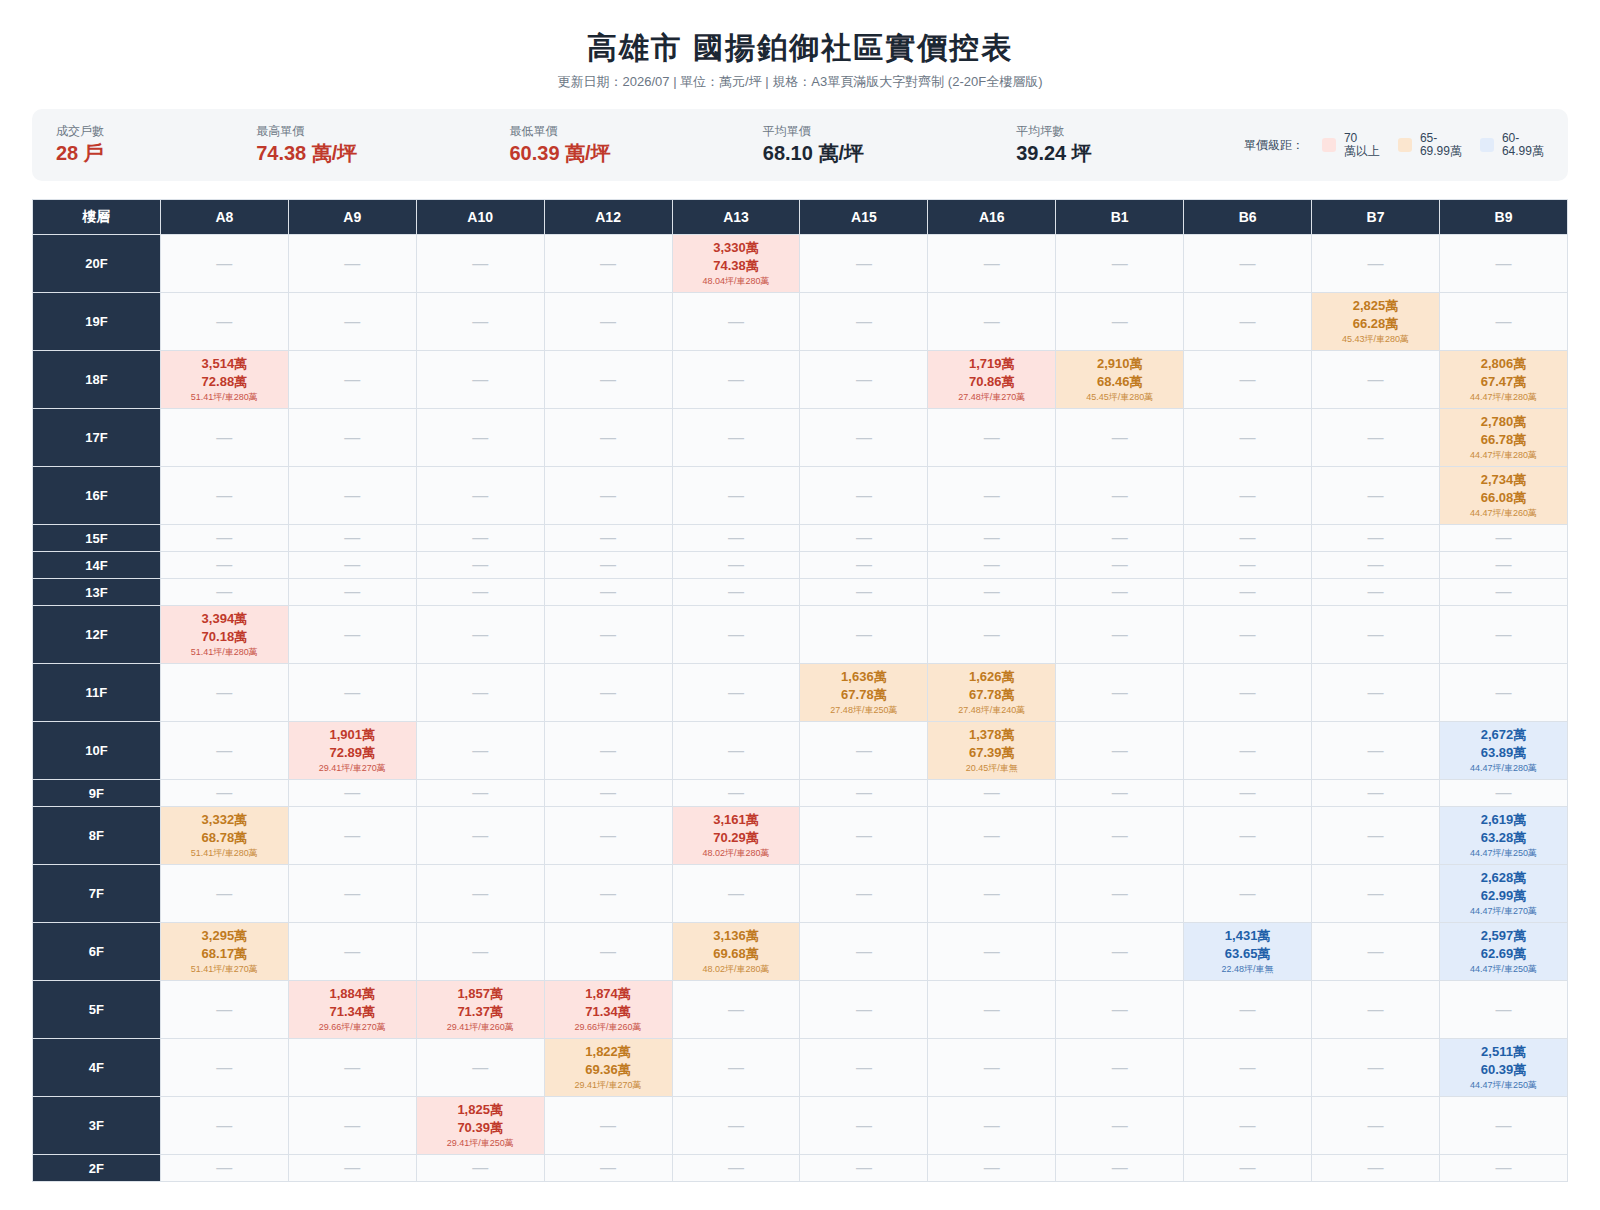
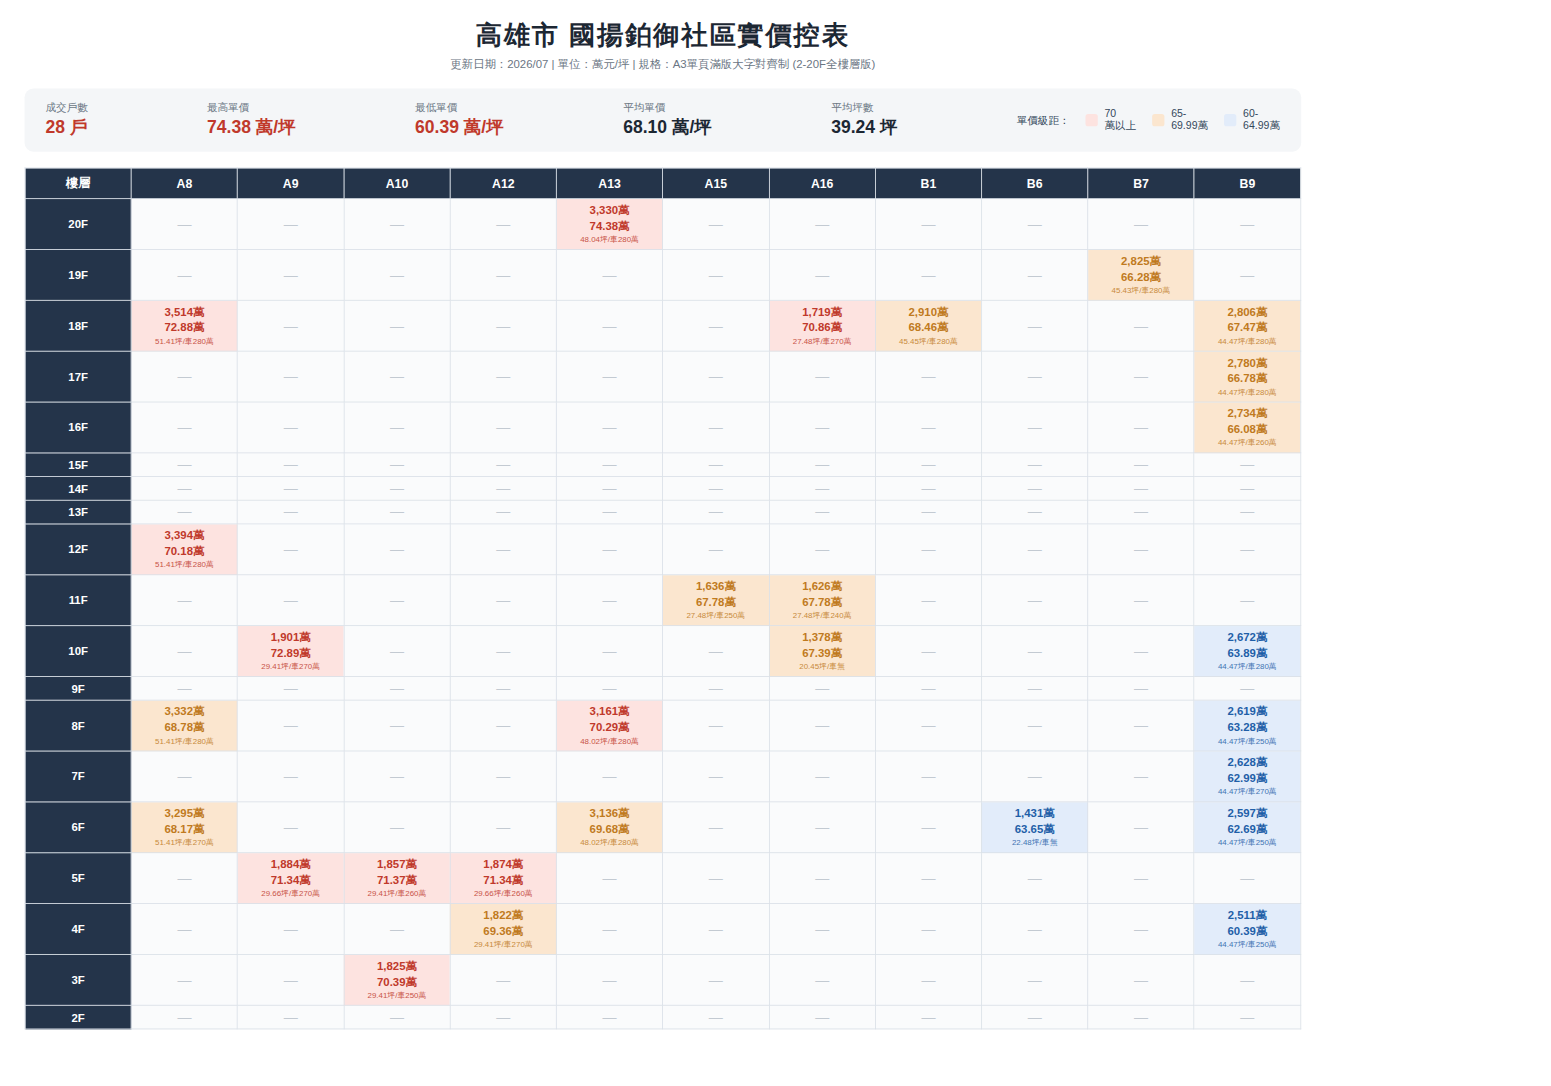
Force report onto a single A3 page regardless of row/column count
Wrap the table in a fixed content box and auto-scale it down (via
scripts/render_pdf.py) to fit the printable page area, so growing
data (more transactions/units) never spills onto a second page.

Claude-Session: https://claude.ai/code/session_019qMmeph4mJXozC5k1Nyzof

diff --git a/output/guoyang_report.html b/output/guoyang_report.html
@@ -1,12 +1,26 @@
 <title>高雄市 國揚鉑御社區實價控表</title>
 <style>
   * { box-sizing: border-box; }
+  html, body {
+    margin: 0;
+    background: #ffffff;
+  }
   body {
     font-family: "Noto Sans TC", "PingFang TC", "Microsoft JhengHei", sans-serif;
-    margin: 0;
-    padding: 28px 32px;
-    background: #ffffff;
     color: #1c2733;
+  }
+  /* Fixed to the printable content box (A3 landscape minus @page margin).
+     #content is scaled down (never up) by render_pdf.py so the whole
+     report always lands on a single page, however many rows/columns. */
+  #sheet {
+    width: 400mm;
+    height: 277mm;
+    overflow: hidden;
+    position: relative;
+  }
+  #content {
+    padding: 20px 28px;
+    transform-origin: top left;
   }
   h1 {
     font-size: 30px;
@@ -64,6 +78,7 @@
   td .note { font-size: 9px; opacity: 0.85; }
   @page { size: A3 landscape; margin: 10mm; }
 </style>
+<div id="sheet"><div id="content">
 <h1>高雄市 國揚鉑御社區實價控表</h1>
 <div class="subtitle">更新日期：2026/07 | 單位：萬元/坪 | 規格：A3單頁滿版大字對齊制 (2-20F全樓層版)</div>
 <div class="stats">
@@ -83,3 +98,4 @@
     <tr><th class="floor">20F</th><td class="empty">—</td><td class="empty">—</td><td class="empty">—</td><td class="empty">—</td><td style="background:#fde3e0;color:#c0392b;"><div class="price">3,330萬</div><div class="unitprice">74.38萬</div><div class="note">48.04坪/車280萬</div></td><td class="empty">—</td><td class="empty">—</td><td class="empty">—</td><td class="empty">—</td><td class="empty">—</td><td class="empty">—</td></tr><tr><th class="floor">19F</th><td class="empty">—</td><td class="empty">—</td><td class="empty">—</td><td class="empty">—</td><td class="empty">—</td><td class="empty">—</td><td class="empty">—</td><td class="empty">—</td><td class="empty">—</td><td style="background:#fbe6cf;color:#c07a1e;"><div class="price">2,825萬</div><div class="unitprice">66.28萬</div><div class="note">45.43坪/車280萬</div></td><td class="empty">—</td></tr><tr><th class="floor">18F</th><td style="background:#fde3e0;color:#c0392b;"><div class="price">3,514萬</div><div class="unitprice">72.88萬</div><div class="note">51.41坪/車280萬</div></td><td class="empty">—</td><td class="empty">—</td><td class="empty">—</td><td class="empty">—</td><td class="empty">—</td><td style="background:#fde3e0;color:#c0392b;"><div class="price">1,719萬</div><div class="unitprice">70.86萬</div><div class="note">27.48坪/車270萬</div></td><td style="background:#fbe6cf;color:#c07a1e;"><div class="price">2,910萬</div><div class="unitprice">68.46萬</div><div class="note">45.45坪/車280萬</div></td><td class="empty">—</td><td class="empty">—</td><td style="background:#fbe6cf;color:#c07a1e;"><div class="price">2,806萬</div><div class="unitprice">67.47萬</div><div class="note">44.47坪/車280萬</div></td></tr><tr><th class="floor">17F</th><td class="empty">—</td><td class="empty">—</td><td class="empty">—</td><td class="empty">—</td><td class="empty">—</td><td class="empty">—</td><td class="empty">—</td><td class="empty">—</td><td class="empty">—</td><td class="empty">—</td><td style="background:#fbe6cf;color:#c07a1e;"><div class="price">2,780萬</div><div class="unitprice">66.78萬</div><div class="note">44.47坪/車280萬</div></td></tr><tr><th class="floor">16F</th><td class="empty">—</td><td class="empty">—</td><td class="empty">—</td><td class="empty">—</td><td class="empty">—</td><td class="empty">—</td><td class="empty">—</td><td class="empty">—</td><td class="empty">—</td><td class="empty">—</td><td style="background:#fbe6cf;color:#c07a1e;"><div class="price">2,734萬</div><div class="unitprice">66.08萬</div><div class="note">44.47坪/車260萬</div></td></tr><tr><th class="floor">15F</th><td class="empty">—</td><td class="empty">—</td><td class="empty">—</td><td class="empty">—</td><td class="empty">—</td><td class="empty">—</td><td class="empty">—</td><td class="empty">—</td><td class="empty">—</td><td class="empty">—</td><td class="empty">—</td></tr><tr><th class="floor">14F</th><td class="empty">—</td><td class="empty">—</td><td class="empty">—</td><td class="empty">—</td><td class="empty">—</td><td class="empty">—</td><td class="empty">—</td><td class="empty">—</td><td class="empty">—</td><td class="empty">—</td><td class="empty">—</td></tr><tr><th class="floor">13F</th><td class="empty">—</td><td class="empty">—</td><td class="empty">—</td><td class="empty">—</td><td class="empty">—</td><td class="empty">—</td><td class="empty">—</td><td class="empty">—</td><td class="empty">—</td><td class="empty">—</td><td class="empty">—</td></tr><tr><th class="floor">12F</th><td style="background:#fde3e0;color:#c0392b;"><div class="price">3,394萬</div><div class="unitprice">70.18萬</div><div class="note">51.41坪/車280萬</div></td><td class="empty">—</td><td class="empty">—</td><td class="empty">—</td><td class="empty">—</td><td class="empty">—</td><td class="empty">—</td><td class="empty">—</td><td class="empty">—</td><td class="empty">—</td><td class="empty">—</td></tr><tr><th class="floor">11F</th><td class="empty">—</td><td class="empty">—</td><td class="empty">—</td><td class="empty">—</td><td class="empty">—</td><td style="background:#fbe6cf;color:#c07a1e;"><div class="price">1,636萬</div><div class="unitprice">67.78萬</div><div class="note">27.48坪/車250萬</div></td><td style="background:#fbe6cf;color:#c07a1e;"><div class="price">1,626萬</div><div class="unitprice">67.78萬</div><div class="note">27.48坪/車240萬</div></td><td class="empty">—</td><td class="empty">—</td><td class="empty">—</td><td class="empty">—</td></tr><tr><th class="floor">10F</th><td class="empty">—</td><td style="background:#fde3e0;color:#c0392b;"><div class="price">1,901萬</div><div class="unitprice">72.89萬</div><div class="note">29.41坪/車270萬</div></td><td class="empty">—</td><td class="empty">—</td><td class="empty">—</td><td class="empty">—</td><td style="background:#fbe6cf;color:#c07a1e;"><div class="price">1,378萬</div><div class="unitprice">67.39萬</div><div class="note">20.45坪/車無</div></td><td class="empty">—</td><td class="empty">—</td><td class="empty">—</td><td style="background:#e2ecfa;color:#1f5fa8;"><div class="price">2,672萬</div><div class="unitprice">63.89萬</div><div class="note">44.47坪/車280萬</div></td></tr><tr><th class="floor">9F</th><td class="empty">—</td><td class="empty">—</td><td class="empty">—</td><td class="empty">—</td><td class="empty">—</td><td class="empty">—</td><td class="empty">—</td><td class="empty">—</td><td class="empty">—</td><td class="empty">—</td><td class="empty">—</td></tr><tr><th class="floor">8F</th><td style="background:#fbe6cf;color:#c07a1e;"><div class="price">3,332萬</div><div class="unitprice">68.78萬</div><div class="note">51.41坪/車280萬</div></td><td class="empty">—</td><td class="empty">—</td><td class="empty">—</td><td style="background:#fde3e0;color:#c0392b;"><div class="price">3,161萬</div><div class="unitprice">70.29萬</div><div class="note">48.02坪/車280萬</div></td><td class="empty">—</td><td class="empty">—</td><td class="empty">—</td><td class="empty">—</td><td class="empty">—</td><td style="background:#e2ecfa;color:#1f5fa8;"><div class="price">2,619萬</div><div class="unitprice">63.28萬</div><div class="note">44.47坪/車250萬</div></td></tr><tr><th class="floor">7F</th><td class="empty">—</td><td class="empty">—</td><td class="empty">—</td><td class="empty">—</td><td class="empty">—</td><td class="empty">—</td><td class="empty">—</td><td class="empty">—</td><td class="empty">—</td><td class="empty">—</td><td style="background:#e2ecfa;color:#1f5fa8;"><div class="price">2,628萬</div><div class="unitprice">62.99萬</div><div class="note">44.47坪/車270萬</div></td></tr><tr><th class="floor">6F</th><td style="background:#fbe6cf;color:#c07a1e;"><div class="price">3,295萬</div><div class="unitprice">68.17萬</div><div class="note">51.41坪/車270萬</div></td><td class="empty">—</td><td class="empty">—</td><td class="empty">—</td><td style="background:#fbe6cf;color:#c07a1e;"><div class="price">3,136萬</div><div class="unitprice">69.68萬</div><div class="note">48.02坪/車280萬</div></td><td class="empty">—</td><td class="empty">—</td><td class="empty">—</td><td style="background:#e2ecfa;color:#1f5fa8;"><div class="price">1,431萬</div><div class="unitprice">63.65萬</div><div class="note">22.48坪/車無</div></td><td class="empty">—</td><td style="background:#e2ecfa;color:#1f5fa8;"><div class="price">2,597萬</div><div class="unitprice">62.69萬</div><div class="note">44.47坪/車250萬</div></td></tr><tr><th class="floor">5F</th><td class="empty">—</td><td style="background:#fde3e0;color:#c0392b;"><div class="price">1,884萬</div><div class="unitprice">71.34萬</div><div class="note">29.66坪/車270萬</div></td><td style="background:#fde3e0;color:#c0392b;"><div class="price">1,857萬</div><div class="unitprice">71.37萬</div><div class="note">29.41坪/車260萬</div></td><td style="background:#fde3e0;color:#c0392b;"><div class="price">1,874萬</div><div class="unitprice">71.34萬</div><div class="note">29.66坪/車260萬</div></td><td class="empty">—</td><td class="empty">—</td><td class="empty">—</td><td class="empty">—</td><td class="empty">—</td><td class="empty">—</td><td class="empty">—</td></tr><tr><th class="floor">4F</th><td class="empty">—</td><td class="empty">—</td><td class="empty">—</td><td style="background:#fbe6cf;color:#c07a1e;"><div class="price">1,822萬</div><div class="unitprice">69.36萬</div><div class="note">29.41坪/車270萬</div></td><td class="empty">—</td><td class="empty">—</td><td class="empty">—</td><td class="empty">—</td><td class="empty">—</td><td class="empty">—</td><td style="background:#e2ecfa;color:#1f5fa8;"><div class="price">2,511萬</div><div class="unitprice">60.39萬</div><div class="note">44.47坪/車250萬</div></td></tr><tr><th class="floor">3F</th><td class="empty">—</td><td class="empty">—</td><td style="background:#fde3e0;color:#c0392b;"><div class="price">1,825萬</div><div class="unitprice">70.39萬</div><div class="note">29.41坪/車250萬</div></td><td class="empty">—</td><td class="empty">—</td><td class="empty">—</td><td class="empty">—</td><td class="empty">—</td><td class="empty">—</td><td class="empty">—</td><td class="empty">—</td></tr><tr><th class="floor">2F</th><td class="empty">—</td><td class="empty">—</td><td class="empty">—</td><td class="empty">—</td><td class="empty">—</td><td class="empty">—</td><td class="empty">—</td><td class="empty">—</td><td class="empty">—</td><td class="empty">—</td><td class="empty">—</td></tr>
   </tbody>
 </table>
+</div></div>

diff --git a/scripts/render_pdf.py b/scripts/render_pdf.py
@@ -1,0 +1,65 @@
+#!/usr/bin/env python3
+"""Render the report HTML to a single-page A3-landscape PDF (+ PNG preview).
+
+However many rows/columns the table ends up with, #content is measured
+and scaled down (never up) to fit exactly inside the printable page box,
+so the output is guaranteed to be one page.
+
+Usage:
+    python3 scripts/render_pdf.py [html_path] [pdf_out] [png_out]
+"""
+import sys
+from pathlib import Path
+
+from playwright.sync_api import sync_playwright
+
+ROOT = Path(__file__).resolve().parent.parent
+HTML_PATH = Path(sys.argv[1]) if len(sys.argv) > 1 else ROOT / "output" / "guoyang_report.html"
+PDF_OUT = Path(sys.argv[2]) if len(sys.argv) > 2 else ROOT / "output" / "guoyang_report.pdf"
+PNG_OUT = Path(sys.argv[3]) if len(sys.argv) > 3 else ROOT / "output" / "guoyang_report.png"
+
+PAGE_WIDTH_MM, PAGE_HEIGHT_MM = 420, 297
+PAGE_MARGIN_MM = 10
+CONTENT_WIDTH_MM = PAGE_WIDTH_MM - 2 * PAGE_MARGIN_MM
+CONTENT_HEIGHT_MM = PAGE_HEIGHT_MM - 2 * PAGE_MARGIN_MM
+MM_TO_PX = 96 / 25.4  # Chromium print uses 96 CSS px per inch
+
+
+def main():
+    box_w_px = CONTENT_WIDTH_MM * MM_TO_PX
+    box_h_px = CONTENT_HEIGHT_MM * MM_TO_PX
+
+    with sync_playwright() as p:
+        browser = p.chromium.launch(executable_path="/opt/pw-browsers/chromium")
+        page = browser.new_page(viewport={"width": int(box_w_px) + 40, "height": int(box_h_px) + 40})
+        page.goto(f"file://{HTML_PATH.resolve()}")
+        page.emulate_media(media="print")
+
+        natural = page.evaluate(
+            "() => { const c = document.getElementById('content');"
+            " return {w: c.scrollWidth, h: c.scrollHeight}; }"
+        )
+        scale = min(1.0, box_w_px / natural["w"], box_h_px / natural["h"])
+        page.evaluate(
+            "(scale) => { document.getElementById('content').style.transform = "
+            "`scale(${scale})`; }",
+            scale,
+        )
+
+        PDF_OUT.parent.mkdir(parents=True, exist_ok=True)
+        page.pdf(
+            path=str(PDF_OUT),
+            width=f"{PAGE_WIDTH_MM}mm",
+            height=f"{PAGE_HEIGHT_MM}mm",
+            print_background=True,
+            margin={"top": f"{PAGE_MARGIN_MM}mm", "bottom": f"{PAGE_MARGIN_MM}mm",
+                    "left": f"{PAGE_MARGIN_MM}mm", "right": f"{PAGE_MARGIN_MM}mm"},
+        )
+        page.screenshot(path=str(PNG_OUT), full_page=False)
+        browser.close()
+
+    print(f"scale={scale:.3f} natural={natural} -> {PDF_OUT}")
+
+
+if __name__ == "__main__":
+    main()

diff --git a/scripts/generate_report.py b/scripts/generate_report.py
@@ -20,6 +20,13 @@ BUILDING_NAME = "國揚鉑御"
 CITY_TITLE = "高雄市 國揚鉑御社區實價控表"
 FLOOR_MIN, FLOOR_MAX = 2, 20
 
+# A3 landscape = 420 x 297mm. #content is scaled to fit inside this box
+# (see render_pdf.py) so the report is always exactly one page.
+PAGE_WIDTH_MM, PAGE_HEIGHT_MM = 420, 297
+PAGE_MARGIN_MM = 10
+PAGE_CONTENT_WIDTH_MM = PAGE_WIDTH_MM - 2 * PAGE_MARGIN_MM
+PAGE_CONTENT_HEIGHT_MM = PAGE_HEIGHT_MM - 2 * PAGE_MARGIN_MM
+
 TIER_HIGH = (70.0, float("inf"), "#fde3e0", "#c0392b", "70\n萬以上")
 TIER_MID = (65.0, 69.9999, "#fbe6cf", "#c07a1e", "65-\n69.99萬")
 TIER_LOW = (60.0, 64.9999, "#e2ecfa", "#1f5fa8", "60-\n64.99萬")
@@ -113,12 +120,26 @@ def build_html(records):
     return f"""<title>{CITY_TITLE}</title>
 <style>
   * {{ box-sizing: border-box; }}
+  html, body {{
+    margin: 0;
+    background: #ffffff;
+  }}
   body {{
     font-family: "Noto Sans TC", "PingFang TC", "Microsoft JhengHei", sans-serif;
-    margin: 0;
-    padding: 28px 32px;
-    background: #ffffff;
     color: #1c2733;
+  }}
+  /* Fixed to the printable content box (A3 landscape minus @page margin).
+     #content is scaled down (never up) by render_pdf.py so the whole
+     report always lands on a single page, however many rows/columns. */
+  #sheet {{
+    width: {PAGE_CONTENT_WIDTH_MM}mm;
+    height: {PAGE_CONTENT_HEIGHT_MM}mm;
+    overflow: hidden;
+    position: relative;
+  }}
+  #content {{
+    padding: 20px 28px;
+    transform-origin: top left;
   }}
   h1 {{
     font-size: 30px;
@@ -174,8 +195,9 @@ def build_html(records):
   td .price {{ font-size: 13px; font-weight: 700; }}
   td .unitprice {{ font-size: 13px; font-weight: 700; }}
   td .note {{ font-size: 9px; opacity: 0.85; }}
-  @page {{ size: A3 landscape; margin: 10mm; }}
+  @page {{ size: A3 landscape; margin: {PAGE_MARGIN_MM}mm; }}
 </style>
+<div id="sheet"><div id="content">
 <h1>{CITY_TITLE}</h1>
 <div class="subtitle">更新日期：{update_month} | 單位：萬元/坪 | 規格：A3單頁滿版大字對齊制 ({FLOOR_MIN}-{FLOOR_MAX}F全樓層版)</div>
 <div class="stats">
@@ -192,6 +214,7 @@ def build_html(records):
     {''.join(body_rows)}
   </tbody>
 </table>
+</div></div>
 """
 
 